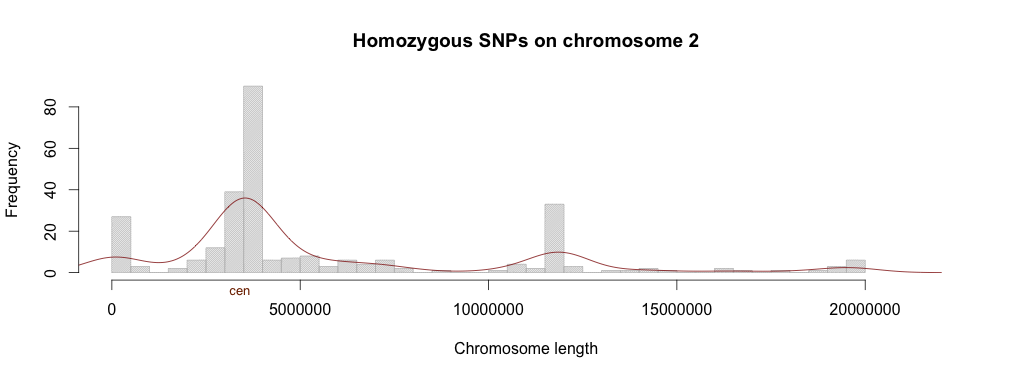
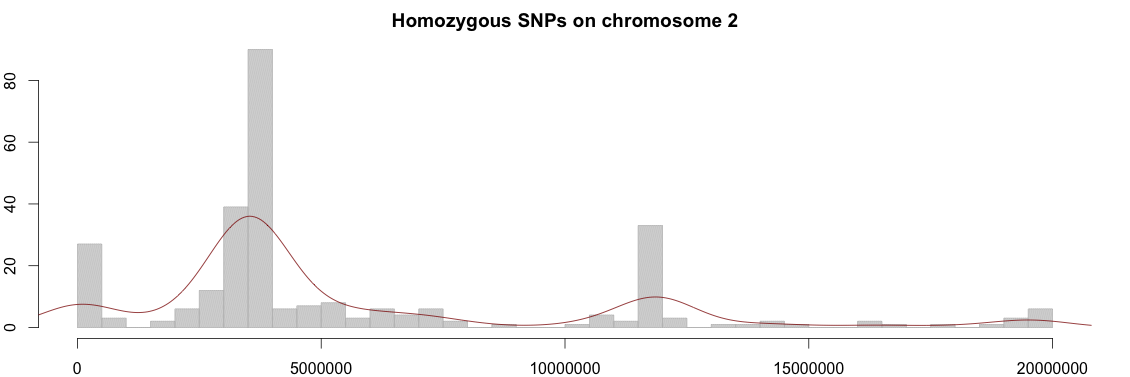
Fix plots sizes

diff --git a/Results/Results_NGSdata.md b/Results/Results_NGSdata.md
@@ -8,25 +8,27 @@ from [BCF2 reads](http://1001genomes.org/software/shoremap.html)
 In here I'm showing the overlapping plots with both densities. In red, the hm SNP density and in blue, the ht SNP density. By doing this, I can start guessing how the hm/ht ratio distribution will look like. 
 
 #####Chromosome 1 
-![Image](https://github.com/pilarcormo/SNP_distribution_method/blob/master/BCF2_chromosome1/Rplot.overlap_hmht.png?raw=true)
+![Image](https://github.com/pilarcormo/SNP_distribution_method/blob/master/BCF2/BCF2_chromosome1/Rplot.hmhtdensities_magblue.png?raw=true)
 
-![Image](https://github.com/pilarcormo/SNP_distribution_method/blob/master/BCF2_chromosome1/Rplot.hist%26den.png?raw=true)
+![Image](https://github.com/pilarcormo/SNP_distribution_method/blob/master/BCF2/BCF2_chromosome1/Rplot.hist%26den.png?raw=true)
 
 
 #####Chromosome 2 
-![Image](https://github.com/pilarcormo/SNP_distribution_method/blob/master/BCF2_chromosome2/Rplot.overlap_hmht.png?raw=true)
+![Image](https://github.com/pilarcormo/SNP_distribution_method/blob/master/BCF2/BCF2_chromosome2/Rplot.hmhtdensities_magblu.png?raw=true)
 
-![Image](https://github.com/pilarcormo/SNP_distribution_method/blob/master/BCF2_chromosome2/Rplot.hist%26den.png?raw=true)
+![Image](https://github.com/pilarcormo/SNP_distribution_method/blob/master/BCF2/BCF2_chromosome2/Rplot.hist%26den.png?raw=true)
 
 #####Chromosome 3
-![Image](https://github.com/pilarcormo/SNP_distribution_method/blob/master/BCF2_chromosome3/Rplot.overlap_hmht.png?raw=true)
+![Image](https://github.com/pilarcormo/SNP_distribution_method/blob/master/BCF2/BCF2_chromosome3/Rplot.hmht.png?raw=true)
 
-![Image](https://github.com/pilarcormo/SNP_distribution_method/blob/master/BCF2_chromosome3/Rplot.hist%26den.png?raw=true)
+![Image](https://github.com/pilarcormo/SNP_distribution_method/blob/master/BCF2/BCF2_chromosome3/Rplot.hist%26den.png?raw=true)
+
 
 #####Chromosome 4
-![Image](https://github.com/pilarcormo/SNP_distribution_method/blob/master/BCF2_chromosome4/Rplot.overlap_hmht.png?raw=true)
+![Image](https://github.com/pilarcormo/SNP_distribution_method/blob/master/BCF2/BCF2_chromosome4/Rplot.hmhtdensities_magblu.png?raw=true)
 
-![Image](https://github.com/pilarcormo/SNP_distribution_method/blob/master/BCF2_chromosome4/Rplot.hist%26den.png?raw=true)
+![Image](https://github.com/pilarcormo/SNP_distribution_method/blob/master/BCF2/BCF2_chromosome4/Rplot.hist%26den.png?raw=true)
 #####Chromosome 5 
-![Image](https://github.com/pilarcormo/SNP_distribution_method/blob/master/BCF2_chromosome5/Rplot.overlap_hmht.png?raw=true?)
-![Image](https://github.com/pilarcormo/SNP_distribution_method/blob/master/BCF2_chromosome5/Rplot.hist%26den.png?raw=true)
+![Image](https://github.com/pilarcormo/SNP_distribution_method/blob/master/BCF2/BCF2_chromosome5/Rplot.hmhtdensities_magblu.png?raw=true)
+
+![Image](https://github.com/pilarcormo/SNP_distribution_method/blob/master/BCF2/BCF2_chromosome5/Rplot.hist%26den.png?raw=true)
